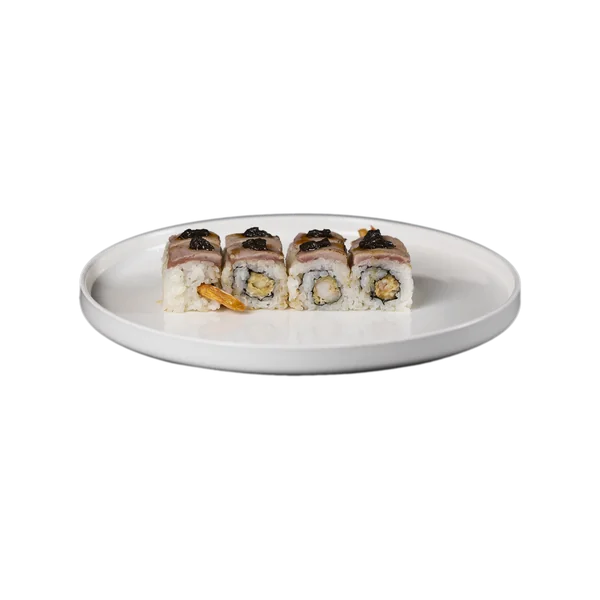
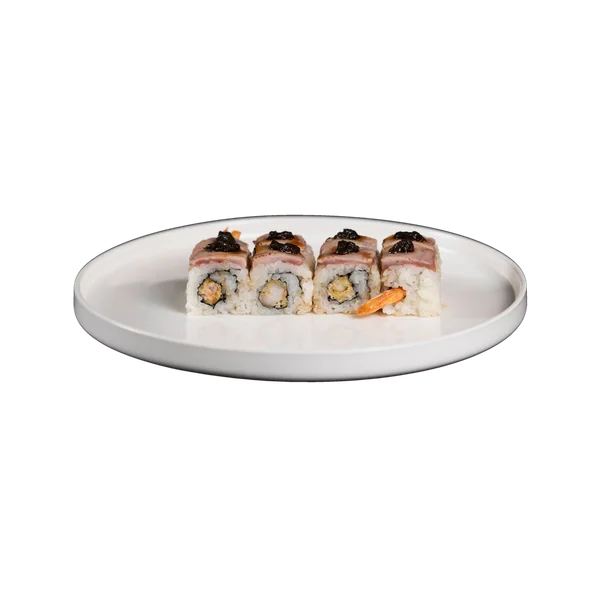
feat(not-used): replaced the uramaki-truffle-tuna photo with dsc-0534
- Renamed dsc-0534.png and .webp to uramaki-truffle-tuna, replacing the old photo
- Removed vegan_old.png and cover-page-2-old.png from menu-maker-extras
- README: 55 -> 54 dishes, 13 -> 12 with only the camera photo

Changed region(s): [[0.12, 0.33, 0.9, 0.66]]

diff --git a/not-used-assets/README.md b/not-used-assets/README.md
@@ -5,11 +5,11 @@ it's outside `public/` and no code imports it.
 
 | What | Where it goes to use it |
 | --- | --- |
-| `photos-original/` and `photos-compressed/`: 55 dishes, each as a PNG and a WebP with the same name | `public/dishes/`, then follow [Dishes](../README.md#dishes) in the main README |
+| `photos-original/` and `photos-compressed/`: 54 dishes, each as a PNG and a WebP with the same name | `public/dishes/`, then follow [Dishes](../README.md#dishes) in the main README |
 | `Fonts/`: Afterglow, Calama (`Calama_new.ttf`), Open Sans Condensed Light (`.ttf` and `OpenSans.woff2`), and the `.ttf` of AsianHiro and Italianno (the site uses their `.woff2`) | `public/Fonts/` |
 | `og-image.webp`: the old picture shown when the site's link is shared | `public/` |
 | `qr-asiarestaurants.png`: the old site's QR code, 3000 px | `public/` |
-| `menu-maker-extras/`: the empty plates (`empty.png` to `empty_4.png`), the «PRÓXIMAMENTE» plate the menu maker showed for a dish without a photo (`default_meal.png`) the old vegan icon (`vegan_old.png`) and the old cover page 2, with other buffet prices (`cover-page-2-old.png`), from asiarestaurants-menu-maker-next | `public/dishes/` |
+| `menu-maker-extras/`: the empty plates (`empty.png` to `empty_4.png`), the «PRÓXIMAMENTE» plate the menu maker showed for a dish without a photo (`default_meal.png`), from asiarestaurants-menu-maker-next | `public/dishes/` |
 
 ## Dish photos
 
@@ -17,7 +17,7 @@ it's outside `public/` and no code imports it.
 | --- | --- | --- |
 | 25 the site showed until 2026 (`uramaki-burn`, `chirashi-salmone`...) | PNG | WebP 600 px |
 | 13 from the old site, named as on its menu (`atsui-maki`, `pato`, `black-roll`...) | PNG cut from the camera photo, 1707 to 4024 px | The old site's WebP, cut by hand, about 500 px |
-| 13 with only the camera photo (`3r0a9327`, `dsc-0501`...) | PNG cut from the camera photo | WebP 600 px |
+| 12 with only the camera photo (`3r0a9327`, `dsc-0501`...) | PNG cut from the camera photo | WebP 600 px |
 | `gua-bao`, `gua-bao-pork`, `69a9580` | PNG, 3840 px | WebP 600 px |
 | `gunkan-sake-phila-salsa`: `gunkan-sake-phila` with sauce drawn on the plate, from the menu maker | PNG, 2012 px | WebP 600 px |
 
